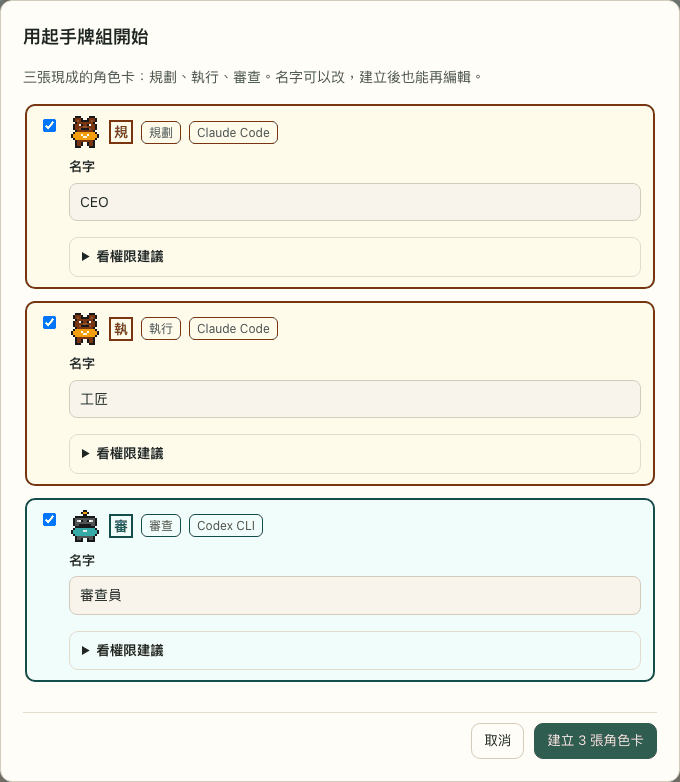
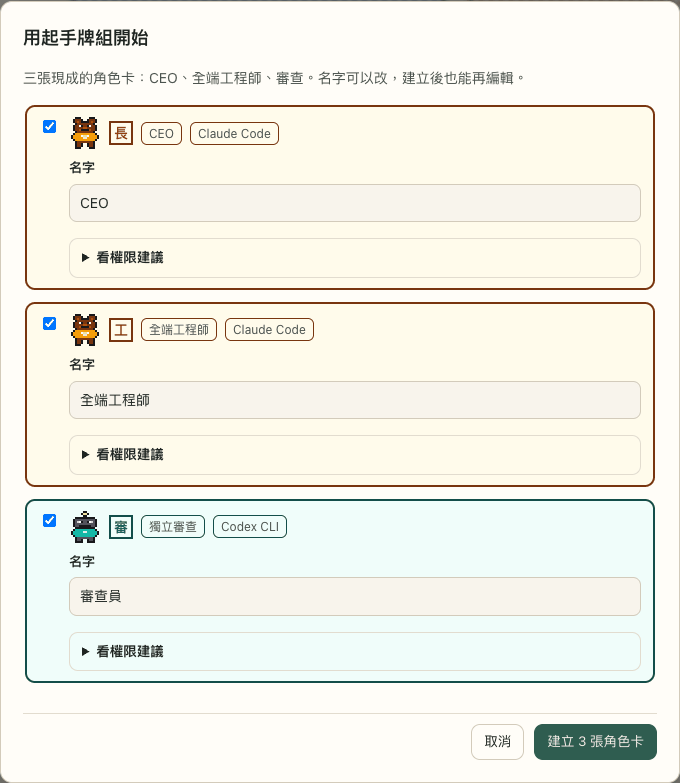
Retake the position-badge pictures and show the v0.9.0 screens in the READMEs
The starter deck and a task card's team places now draw the badges of the
positions (長, 工, 審), so both pictures are taken again and their captions
say so; the task card's progress lights keep 規, 執, 審, which are phases.
Both READMEs gain step 2 of the card wizard, the launch pass of a full-mode
card, the office's meeting room and a meeting waiting for the chairman, each
with a demo-data caption. The card pool picture, taken with v0.8, says what
a v0.9.0 card's back adds instead of being retaken.

diff --git a/tests/test_readme_images.py b/tests/test_readme_images.py
@@ -116,6 +116,32 @@ class ReadmeImages(unittest.TestCase):
         for old in ("（v0.7）", "（v0.8）"):
             self.assertNotIn(old, zh)
 
+    def test_the_v090_screens_are_shown_in_both_readmes(self):
+        """The screens this release added: step 2 of the card wizard, a full-mode launch pass, a meeting and the office's
+        meeting room."""
+        for name in READMES:
+            refs = referenced(name)
+            for picture in ("card-wizard-position.png", "launch-pass-full.png", "meeting.png", "office-meeting-room.png"):
+                self.assertIn(f"docs/images/{picture}", refs, f"{name}: {picture}")
+
+    def test_the_position_badges_are_the_ones_the_pages_draw_now(self):
+        """The starter deck and a task card's team places show the badge of the position (長, 工, 審 for CEO, 全端工程師
+        and the review gate); a task card's three progress lights keep 規, 執, 審, which are phases, not positions."""
+        app = (ROOT / "web" / "app.js").read_text(encoding="utf-8")
+        for glyph in ('glyph: "長"', 'glyph: "工"', 'glyph: "審"'):
+            self.assertIn(glyph, app)
+        for name, starter, team, lights, badges, old in (
+                ("README.md", "Left: the **starter deck**", "A flow's **progress and team places**", "**Task cards** (demo data)",
+                 "(長, 工, 審)", "(規, 執, 審)"),
+                ("README.zh-TW.md", "左：**起手牌組**", "流程的**任務進度與隊伍位置**", "**任務卡**（示範資料）",
+                 "（長、工、審）", "（規、執、審）")):
+            text = (ROOT / name).read_text(encoding="utf-8")
+            for start in (starter, team):
+                block = text[text.index(start):].split("\n\n", 1)[0]
+                self.assertIn(badges, block, f"{name}: {start}")
+                self.assertNotIn(old, block, f"{name}: {start}")
+            self.assertIn(old, text[text.index(lights):].split("\n\n", 1)[0], f"{name}: the progress lights")
+
     def test_every_caption_says_demo_data(self):
         for name, start, end, mark in (("README.md", "### What it looks like", "## What you can do with it", "demo data"),
                                        ("README.zh-TW.md", "### 畫面長這樣", "## 你可以用它做什麼", "示範資料")):
@@ -155,13 +181,18 @@ class ReadmeImages(unittest.TestCase):
         app = (ROOT / "web" / "app.js").read_text(encoding="utf-8")
         quoted = ("接手提醒", "改成只觀看", "這是你剛開的終端，可以直接打字；打的字會直接送給 Agent", "核准計畫並開啟自動執行…",
                   "終端工作台", "標記：", "這是什麼", "打開角色卡", "回角色卡池", "回任務卡", "往下捲動看更多", "確認啟動",
-                  "這個終端沒有關聯任務卡", "現在打字可能打斷它", "名冊，不代表正在出勤", "收藏中", "生效中", "看七項細節")
+                  "這個終端沒有關聯任務卡", "現在打字可能打斷它", "名冊，不代表正在出勤", "收藏中", "生效中", "看七項細節",
+                  # v0.9.0: the wizard's step 2, the full-mode pass, the meeting pages and the office's meeting room
+                  "VBear 內建：審查關卡（給任務卡的審查位）", "出發方式", "回復預設", "貼上職位指示", "VBear 沒有限制這張卡",
+                  "開會討論", "預覽（還不會開始）", "開始開會", "代發言", "董事長桌", "去核准", "寫進任務卡", "輪到你：董事長核准")
         for phrase in quoted:
             self.assertIn(phrase, app, phrase)
         en = (ROOT / "README.md").read_text(encoding="utf-8")
         zh = (ROOT / "README.zh-TW.md").read_text(encoding="utf-8")
         for phrase in ("接手提醒", "改成只觀看", "這是你剛開的終端，可以直接打字；打的字會直接送給 Agent", "核准計畫並開啟自動執行…",
-                       "這個終端沒有關聯任務卡", "現在打字可能打斷它"):
+                       "這個終端沒有關聯任務卡", "現在打字可能打斷它",
+                       "VBear 內建：審查關卡（給任務卡的審查位）", "回復預設", "貼上職位指示", "VBear 沒有限制這張卡", "開會討論",
+                       "開始開會", "代發言", "董事長桌", "去核准", "寫進任務卡", "輪到你：董事長核准"):
             self.assertIn(phrase, en, phrase)
             self.assertIn(phrase, zh, phrase)
 
